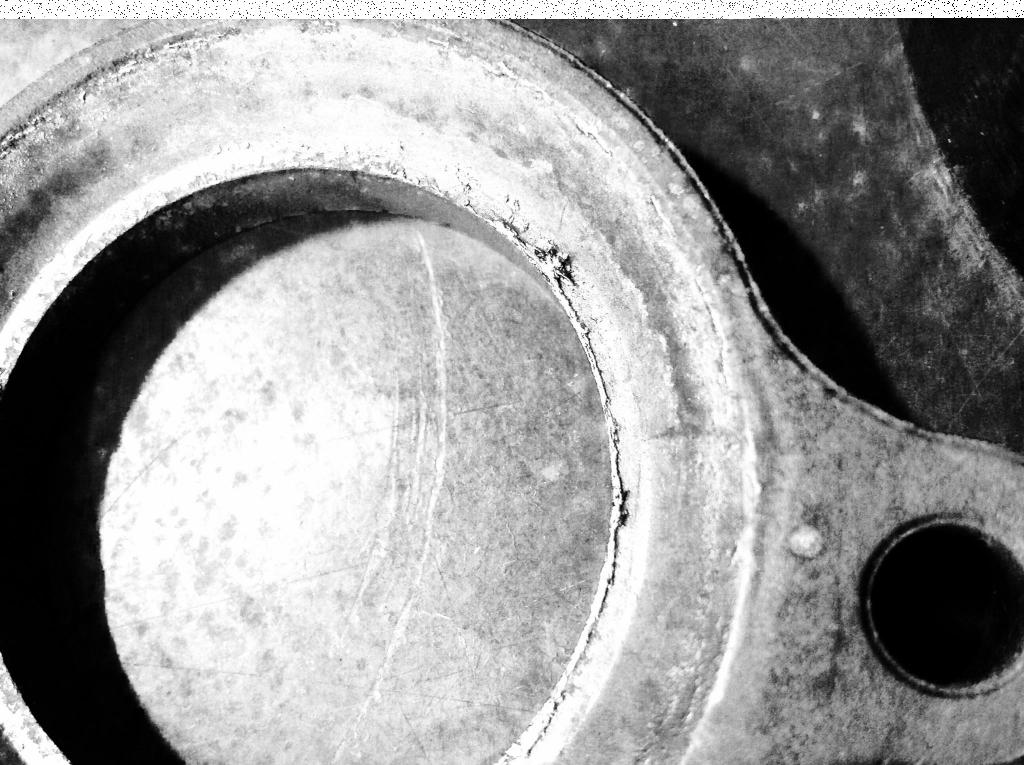
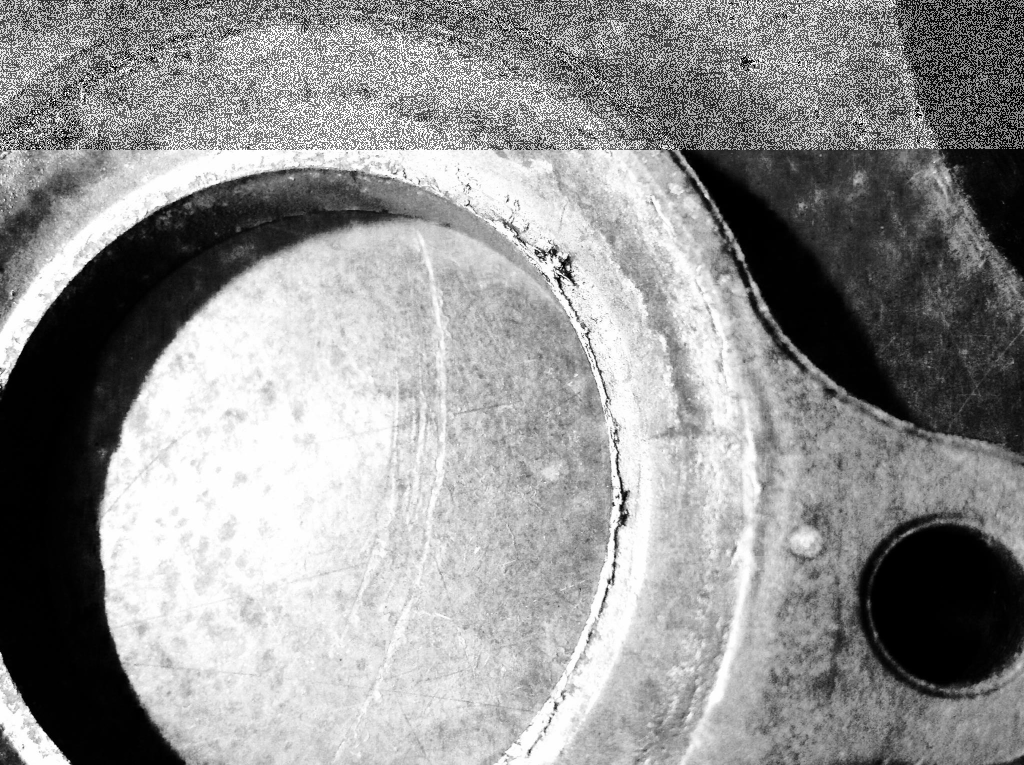
using pillow to "hide" information in the Most significant bit.

Changed region(s): [[0.0, 0.0, 1.0, 0.2105]]

diff --git a/pillow_test.py b/pillow_test.py
@@ -10,17 +10,21 @@ def hide_bit(original: int, bit: int) -> int:
 with Image.open("worn.png") as img, open("final_exam.png", "rb") as hidden:
     px = img.load()
     data = hidden.read()
-    b_message = [format(int(data[i]), "08b") for i in data]
+    b_message = "".join([format(int(data[i]), "08b") for i in data])
     width, height = img.width, img.height
+
     for y in range(height):
         for x in range(width):
             if len(b_message) > 0:
-                bit_to_hide = b_message.pop(0)
+                bit_to_hide = b_message[0:1]
                 image_byte = px[x, y]
                 px[x, y] = hide_bit(image_byte, int(bit_to_hide))
+                b_message=b_message[1:]
+                print(hide_bit(image_byte, int(bit_to_hide)), image_byte, bit_to_hide)
     img.save("test.png")
 
     orgnl = px[100, 100]
+    print(type(orgnl))
     print(format(orgnl, "08b"))
-    print(format(hide_bit(orgnl, 0), "08b"))
+    print(format(hide_bit(orgnl, int("0")), "08b"))
     print(format(hide_bit(orgnl, 1), "08b"))
